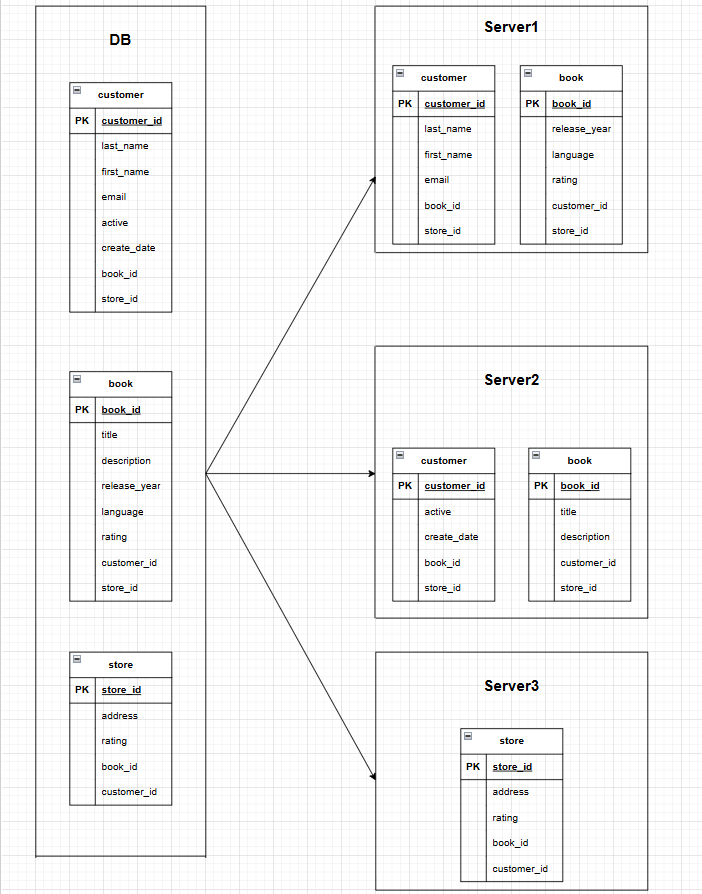
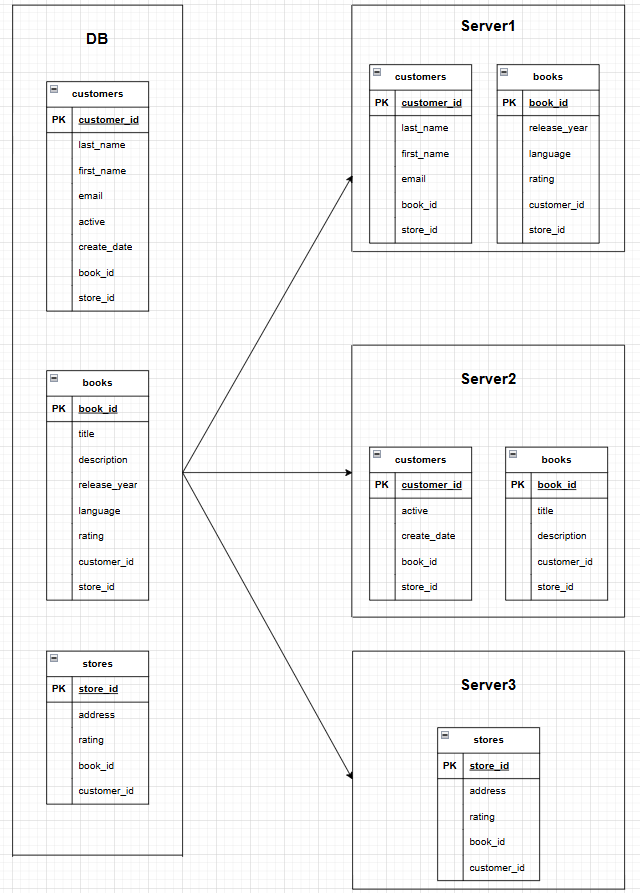
add solutions net-fops-hw-12-7

diff --git a/README.md b/README.md
@@ -142,19 +142,19 @@ Server3:
 
 Выделить диапазоны строк, которые будут распределены по серверам:
 - Таблица "customers"
-  Server1 - 1-4 rows
-  Server2 - 5-8 rows
-  Server3 - 8-10 rows
+  - server1 - 1-4 rows
+  - server2 - 5-8 rows
+  - server3 - 8-10 rows
   
 - Таблица "books"
-  Server1 - 1-4 rows
-  Server2 - 5-8 rows
-  Server3 - 8-10 rows
+  - server1 - 1-4 rows
+  - server2 - 5-8 rows
+  - server3 - 8-10 rows
   
 - Таблица "stores"
-  Server1 - 1-4 rows
-  Server2 - 5-8 rows
-  Server3 - 8-10 rows
+  - server1 - 1-4 rows
+  - server2 - 5-8 rows
+  - server3 - 8-10 rows
 
 При данной схеме серверы будут загружаны равномерно за счет сбалансированного распределенных диапазонов строк.
 